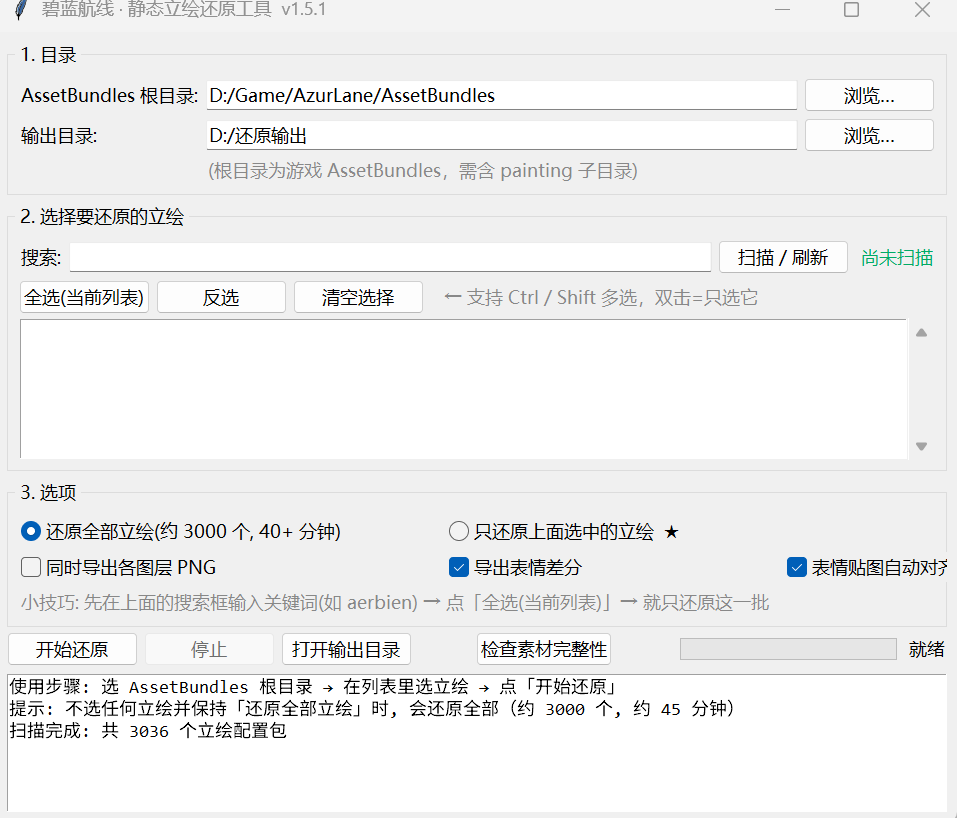
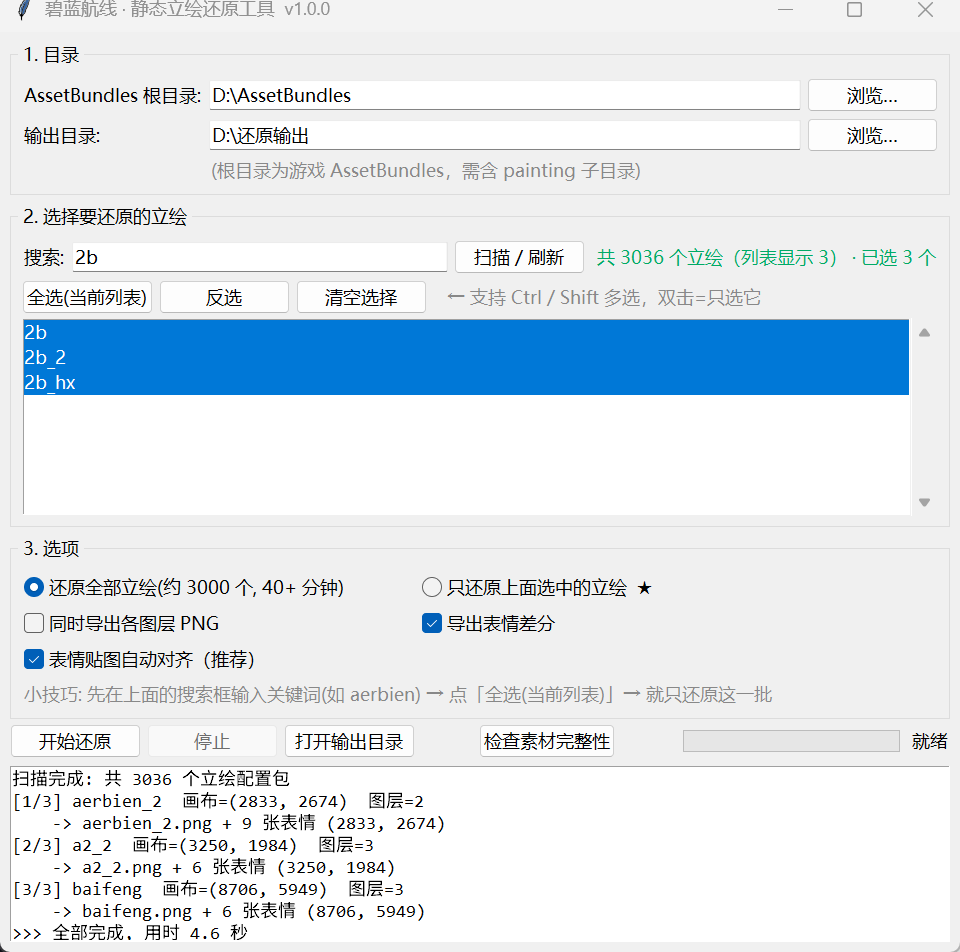
docs: 更新项目截图至 v1.0.0 并修正选项区布局
- 界面截图重新抓取：标题栏为 v1.0.0，无旧版本号残留
- 「表情贴图自动对齐（推荐）」移至选项区左侧独立一行，不再被窗口右缘裁切
- 截图窗口加高，日志区完整显示全部输出行

diff --git a/al_restore.py b/al_restore.py
@@ -1073,9 +1073,9 @@ def gui():
     ttk.Checkbutton(f3, text="导出表情差分", variable=v_face).grid(
         row=1, column=1, sticky="w", padx=(14, 0), pady=(6, 0))
     ttk.Checkbutton(f3, text="表情贴图自动对齐（推荐）", variable=v_align).grid(
-        row=1, column=2, sticky="w", padx=(14, 0), pady=(6, 0))
+        row=2, column=0, sticky="w", pady=(6, 0))
     ttk.Label(f3, text="小技巧: 先在上面的搜索框输入关键词(如 aerbien) → 点「全选(当前列表)」→ 就只还原这一批",
-              foreground="#888").grid(row=2, column=0, columnspan=2, sticky="w", pady=(6, 0))
+              foreground="#888").grid(row=3, column=0, columnspan=3, sticky="w", pady=(6, 0))
 
     # ------------------------------------------------------------- 4. 运行
     f4 = ttk.Frame(root, padding=(10, 0))
